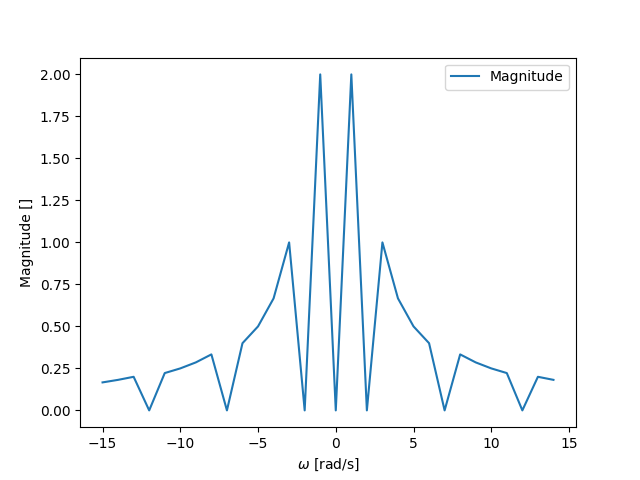
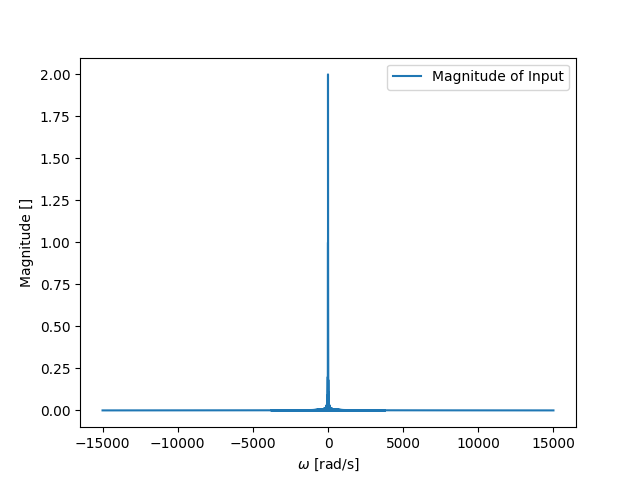
2c

diff --git a/Assignment 2/Assignment2.py b/Assignment 2/Assignment2.py
@@ -66,30 +66,34 @@ def get_nth_f_trans(n, w0, w, dw):
     arr[bool_arr] = bn*1j*np.pi/dw
     return arr
     
-w_arr = np.arange(-15*10**0, 15*10**0, 1)
+w_arr = np.arange(-15*10**3, 15*10**3, 1)
 
 res_arr = np.zeros(w_arr.shape)
-for n in range(1, 1000):
+for n in range(1, 10000):
     res_arr = res_arr + get_nth_f_trans(n, 2*np.pi/5, w_arr, 1)
 
 
-plt.plot(w_arr, np.absolute(res_arr), label='Magnitude')
+Y_arr = res_arr*f_arr
+
+plt.plot(w_arr, np.absolute(res_arr), label='Magnitude of Input')
+plt.plot(w_arr, np.absolute(Y_arr), label="Magnitude of Output")
 
 plt.xlabel('$\omega$ [rad/s]')
 plt.ylabel('Magnitude []')
 
 plt.legend()
 
-plt.savefig("2b1")
+plt.savefig("2c1")
 plt.clf()
 
 
-plt.plot(w_arr, np.angle(res_arr), label="Phase")
+plt.plot(w_arr, np.angle(res_arr), label="Phase of Input")
+plt.plot(w_arr, np.angle(Y_arr), label="Phase of Output")
 
 plt.xlabel("$\omega$ [rad/s]")
 plt.ylabel('Phase [rad]')
 
 plt.legend()
 
-plt.savefig("2b2")
+plt.savefig("2c2")
 plt.clf()
